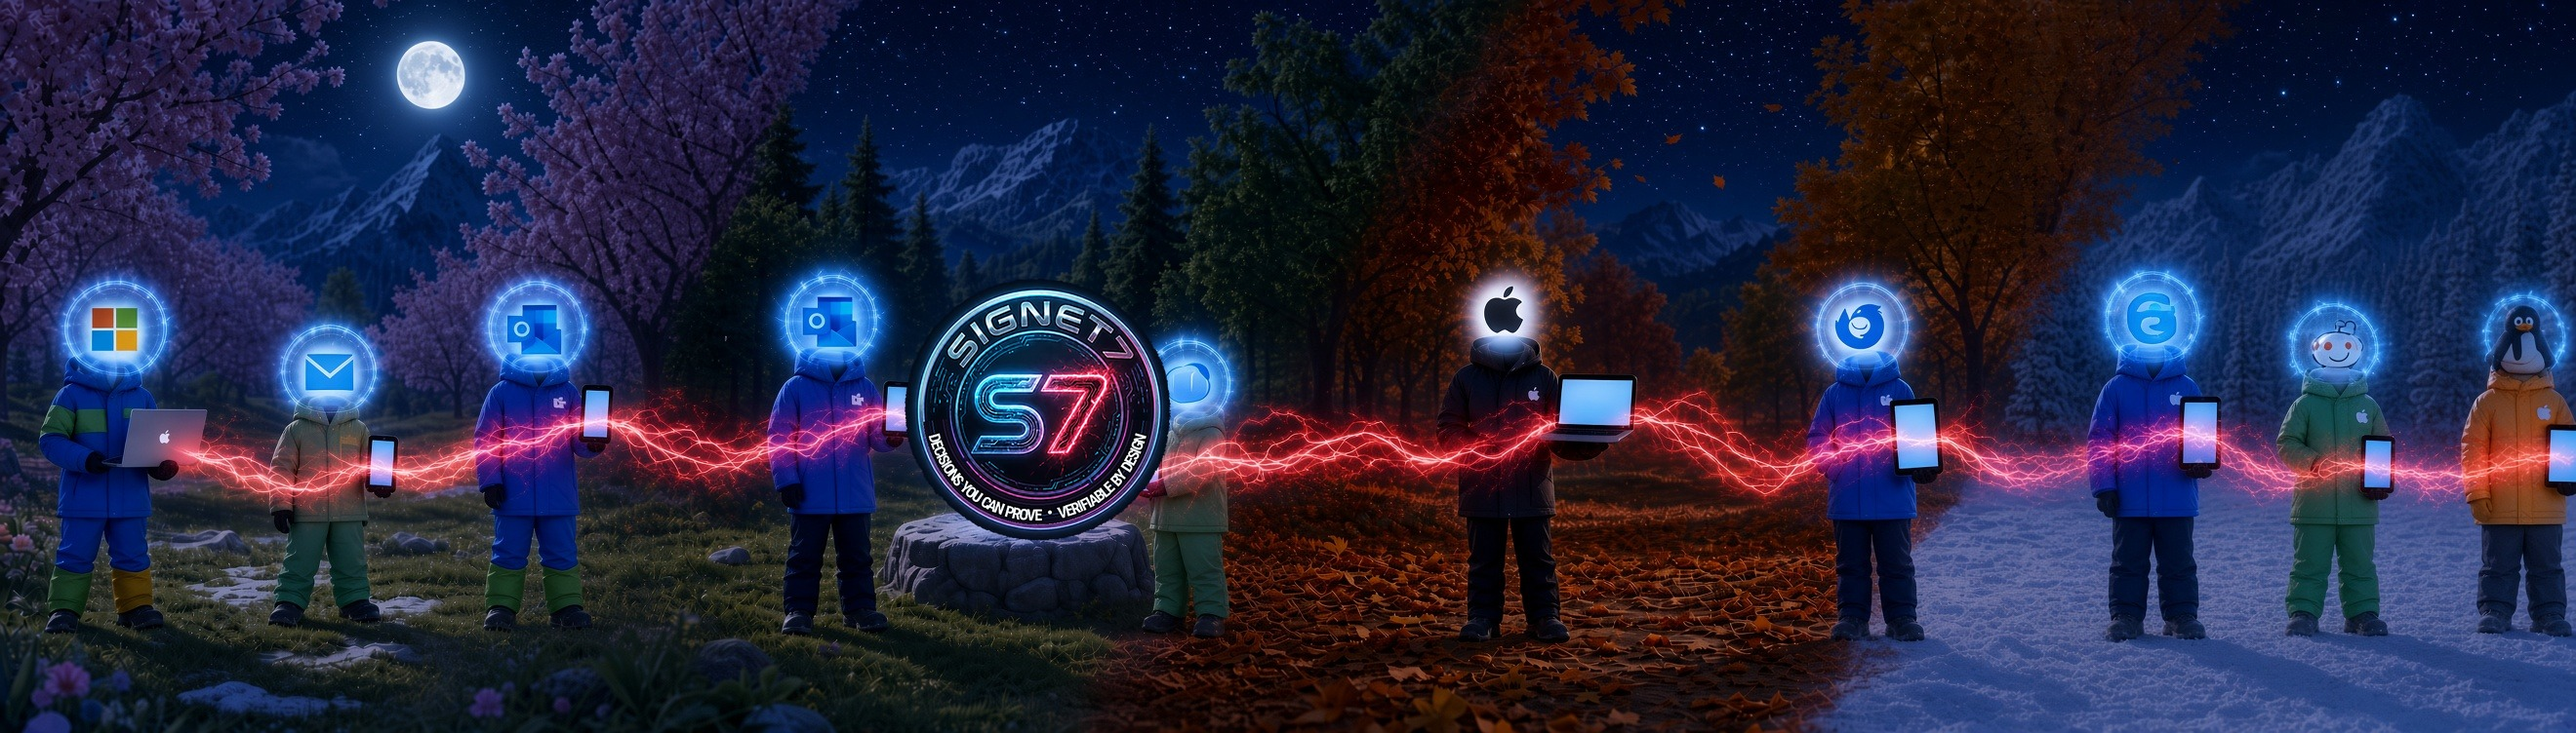
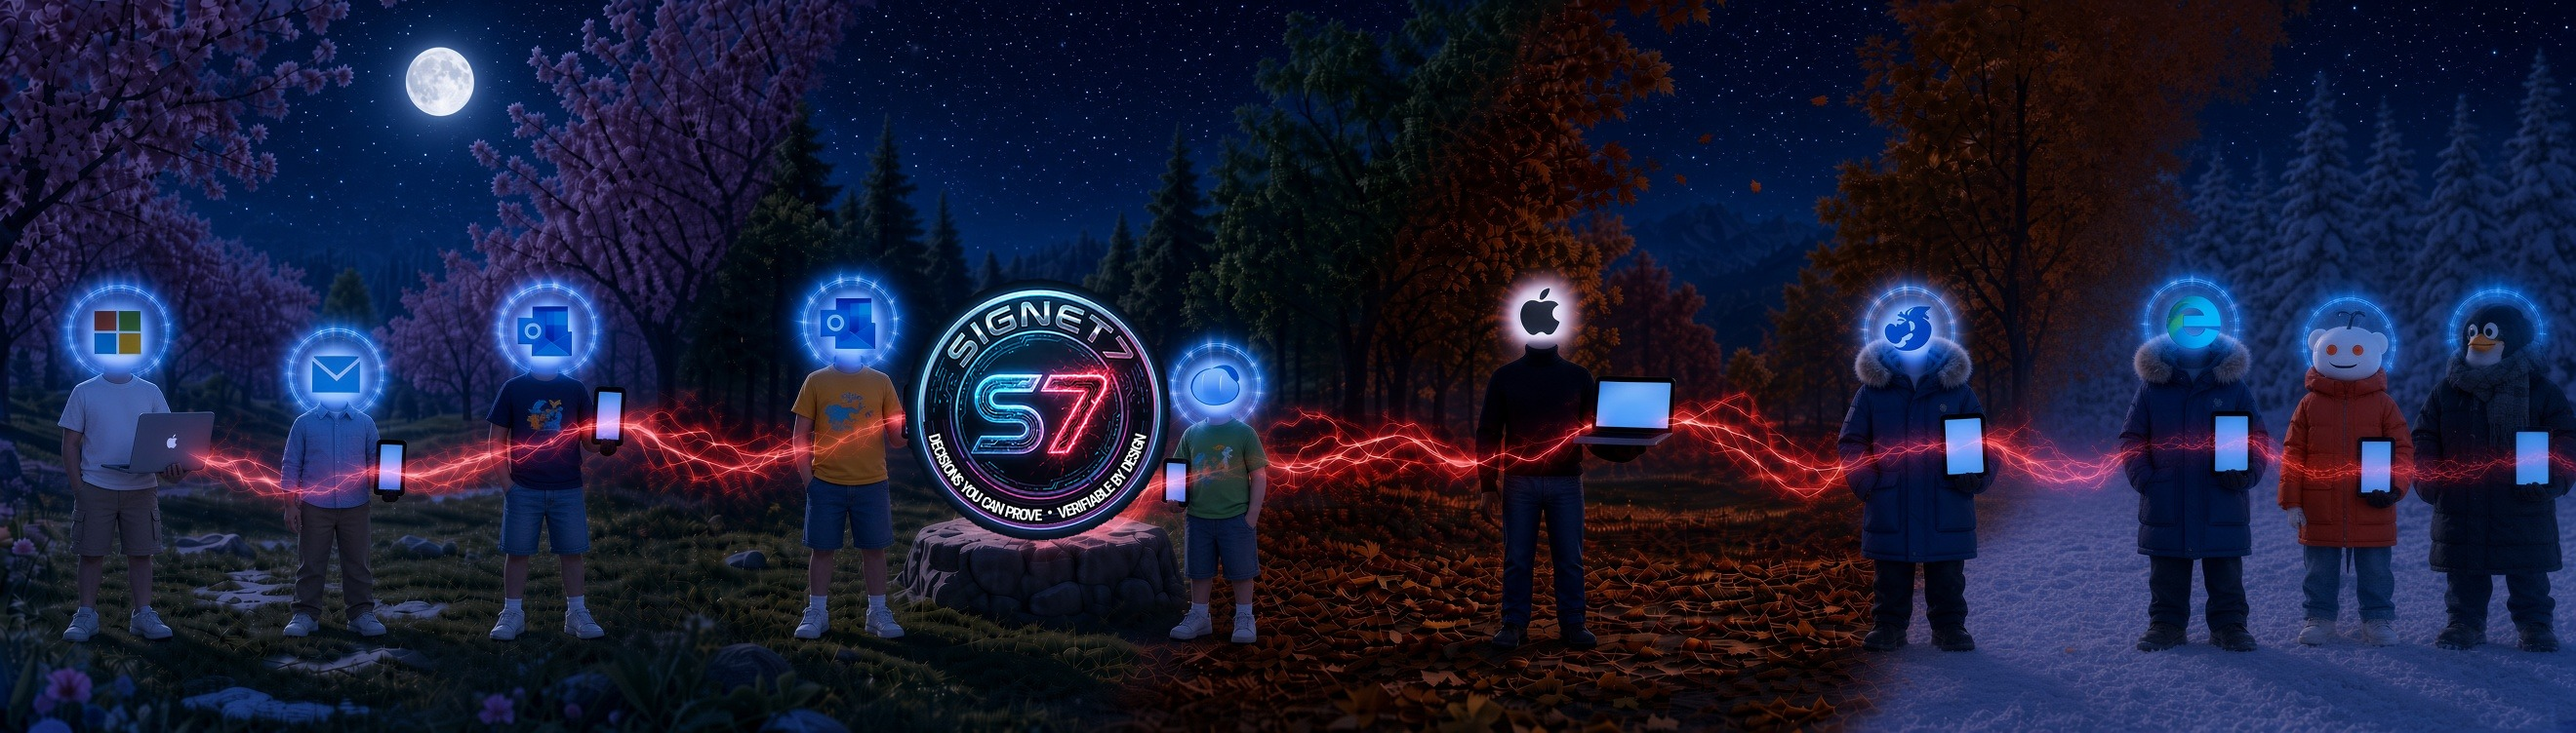
feat(site): people scenes for light and dark on every page
Day panorama is light. Night panorama is dark. Current catchphrase seal on the stone.

diff --git a/trust.html b/trust.html
@@ -5,7 +5,7 @@
      enforceable subset. NOTE: frame-ancestors is ignored when delivered via <meta>;
      real clickjacking protection requires a header layer (Cloudflare/CloudFront) and
      is required before any verification surface is hosted on this domain. -->
-<meta http-equiv="Content-Security-Policy" content="default-src 'self'; script-src 'self'; style-src 'self'; img-src 'self'; font-src 'self'; connect-src 'self'; object-src 'none'; base-uri 'none'; form-action 'self'; frame-ancestors 'none'; upgrade-insecure-requests"><meta name="referrer" content="strict-origin-when-cross-origin"><meta http-equiv="X-Content-Type-Options" content="nosniff"><title>Trust &amp; Evidence | Signet7</title><meta name="description" content="Understand Signet7 signature-bound sender identity, trust states, decision evidence, compliance boundaries, and the Verifiable Sender Network (VSN) lookup live on qualification."><link rel="canonical" href="https://signet7.io/trust"><meta property="og:title" content="Trust &amp; Evidence | Signet7"><meta property="og:description" content="Understand Signet7 signature-bound sender identity, trust states, decision evidence, compliance boundaries, and the Verifiable Sender Network (VSN) lookup live on qualification."><meta property="og:type" content="website"><meta property="og:url" content="https://signet7.io/trust"><meta property="og:image" content="https://signet7.io/assets/og-image.png"><meta name="twitter:card" content="summary_large_image"><link rel="icon" type="image/png" href="assets/favicon.png"><link rel="stylesheet" href="assets/site.css?v=20260821z"></head>
+<meta http-equiv="Content-Security-Policy" content="default-src 'self'; script-src 'self'; style-src 'self'; img-src 'self'; font-src 'self'; connect-src 'self'; object-src 'none'; base-uri 'none'; form-action 'self'; frame-ancestors 'none'; upgrade-insecure-requests"><meta name="referrer" content="strict-origin-when-cross-origin"><meta http-equiv="X-Content-Type-Options" content="nosniff"><title>Trust &amp; Evidence | Signet7</title><meta name="description" content="Understand Signet7 signature-bound sender identity, trust states, decision evidence, compliance boundaries, and the Verifiable Sender Network (VSN) lookup live on qualification."><link rel="canonical" href="https://signet7.io/trust"><meta property="og:title" content="Trust &amp; Evidence | Signet7"><meta property="og:description" content="Understand Signet7 signature-bound sender identity, trust states, decision evidence, compliance boundaries, and the Verifiable Sender Network (VSN) lookup live on qualification."><meta property="og:type" content="website"><meta property="og:url" content="https://signet7.io/trust"><meta property="og:image" content="https://signet7.io/assets/og-image.png"><meta name="twitter:card" content="summary_large_image"><link rel="icon" type="image/png" href="assets/favicon.png"><link rel="stylesheet" href="assets/site.css?v=20260821aa"></head>
 <body>
   <a class="skip-link" href="#main">Skip to content</a>
   <header class="site-header"><div class="container nav-wrap"><a class="brand" href="/"><img src="assets/signet7-logo-mark.png?v=c3" width="768" height="768" alt="Signet7"><span>Signet7</span></a>      <button class="nav-toggle" type="button" aria-expanded="false" aria-controls="site-nav" aria-label="Open menu">Menu</button>

diff --git a/programs.html b/programs.html
@@ -5,7 +5,7 @@
      enforceable subset. NOTE: frame-ancestors is ignored when delivered via <meta>;
      real clickjacking protection requires a header layer (Cloudflare/CloudFront) and
      is required before any verification surface is hosted on this domain. -->
-<meta http-equiv="Content-Security-Policy" content="default-src 'self'; script-src 'self'; style-src 'self'; img-src 'self'; font-src 'self'; connect-src 'self'; object-src 'none'; base-uri 'none'; form-action 'self'; frame-ancestors 'none'; upgrade-insecure-requests"><meta name="referrer" content="strict-origin-when-cross-origin"><meta http-equiv="X-Content-Type-Options" content="nosniff"><title>Programs &amp; Pricing Direction | Signet7</title><meta name="description" content="Review Signet7's new agent- and decision-value commercial direction, buyer ladder, evaluation program, and inactive legacy pricing boundary."><link rel="canonical" href="https://signet7.io/programs"><meta property="og:title" content="Programs &amp; Pricing Direction | Signet7"><meta property="og:description" content="Review Signet7's new agent- and decision-value commercial direction, buyer ladder, evaluation program, and inactive legacy pricing boundary."><meta property="og:type" content="website"><meta property="og:url" content="https://signet7.io/programs"><meta property="og:image" content="https://signet7.io/assets/og-image.png"><meta name="twitter:card" content="summary_large_image"><link rel="icon" type="image/png" href="assets/favicon.png"><link rel="stylesheet" href="assets/site.css?v=20260821z"></head>
+<meta http-equiv="Content-Security-Policy" content="default-src 'self'; script-src 'self'; style-src 'self'; img-src 'self'; font-src 'self'; connect-src 'self'; object-src 'none'; base-uri 'none'; form-action 'self'; frame-ancestors 'none'; upgrade-insecure-requests"><meta name="referrer" content="strict-origin-when-cross-origin"><meta http-equiv="X-Content-Type-Options" content="nosniff"><title>Programs &amp; Pricing Direction | Signet7</title><meta name="description" content="Review Signet7's new agent- and decision-value commercial direction, buyer ladder, evaluation program, and inactive legacy pricing boundary."><link rel="canonical" href="https://signet7.io/programs"><meta property="og:title" content="Programs &amp; Pricing Direction | Signet7"><meta property="og:description" content="Review Signet7's new agent- and decision-value commercial direction, buyer ladder, evaluation program, and inactive legacy pricing boundary."><meta property="og:type" content="website"><meta property="og:url" content="https://signet7.io/programs"><meta property="og:image" content="https://signet7.io/assets/og-image.png"><meta name="twitter:card" content="summary_large_image"><link rel="icon" type="image/png" href="assets/favicon.png"><link rel="stylesheet" href="assets/site.css?v=20260821aa"></head>
 <body>
   <a class="skip-link" href="#main">Skip to content</a>
   <header class="site-header"><div class="container nav-wrap"><a class="brand" href="/"><img src="assets/signet7-logo-mark.png?v=c3" width="768" height="768" alt="Signet7"><span>Signet7</span></a>      <button class="nav-toggle" type="button" aria-expanded="false" aria-controls="site-nav" aria-label="Open menu">Menu</button>

diff --git a/integrations.html b/integrations.html
@@ -5,7 +5,7 @@
      enforceable subset. NOTE: frame-ancestors is ignored when delivered via <meta>;
      real clickjacking protection requires a header layer (Cloudflare/CloudFront) and
      is required before any verification surface is hosted on this domain. -->
-<meta http-equiv="Content-Security-Policy" content="default-src 'self'; script-src 'self'; style-src 'self'; img-src 'self'; font-src 'self'; connect-src 'self'; object-src 'none'; base-uri 'none'; form-action 'self'; frame-ancestors 'none'; upgrade-insecure-requests"><meta name="referrer" content="strict-origin-when-cross-origin"><meta http-equiv="X-Content-Type-Options" content="nosniff"><title>Integrations | Signet7 API &amp; MCP</title><meta name="description" content="Review Signet7 API/MCP-first agent gating, caller-enforcement contract, email integration candidates, and current deployment boundaries."><link rel="canonical" href="https://signet7.io/integrations"><meta property="og:title" content="Integrations | Signet7 API &amp; MCP"><meta property="og:description" content="Review Signet7 API/MCP-first agent gating, caller-enforcement contract, email integration candidates, and current deployment boundaries."><meta property="og:type" content="website"><meta property="og:url" content="https://signet7.io/integrations"><meta property="og:image" content="https://signet7.io/assets/og-image.png"><meta name="twitter:card" content="summary_large_image"><link rel="icon" type="image/png" href="assets/favicon.png"><link rel="stylesheet" href="assets/site.css?v=20260821z"></head>
+<meta http-equiv="Content-Security-Policy" content="default-src 'self'; script-src 'self'; style-src 'self'; img-src 'self'; font-src 'self'; connect-src 'self'; object-src 'none'; base-uri 'none'; form-action 'self'; frame-ancestors 'none'; upgrade-insecure-requests"><meta name="referrer" content="strict-origin-when-cross-origin"><meta http-equiv="X-Content-Type-Options" content="nosniff"><title>Integrations | Signet7 API &amp; MCP</title><meta name="description" content="Review Signet7 API/MCP-first agent gating, caller-enforcement contract, email integration candidates, and current deployment boundaries."><link rel="canonical" href="https://signet7.io/integrations"><meta property="og:title" content="Integrations | Signet7 API &amp; MCP"><meta property="og:description" content="Review Signet7 API/MCP-first agent gating, caller-enforcement contract, email integration candidates, and current deployment boundaries."><meta property="og:type" content="website"><meta property="og:url" content="https://signet7.io/integrations"><meta property="og:image" content="https://signet7.io/assets/og-image.png"><meta name="twitter:card" content="summary_large_image"><link rel="icon" type="image/png" href="assets/favicon.png"><link rel="stylesheet" href="assets/site.css?v=20260821aa"></head>
 <body>
   <a class="skip-link" href="#main">Skip to content</a>
   <header class="site-header"><div class="container nav-wrap"><a class="brand" href="/"><img src="assets/signet7-logo-mark.png?v=c3" width="768" height="768" alt="Signet7"><span>Signet7</span></a>      <button class="nav-toggle" type="button" aria-expanded="false" aria-controls="site-nav" aria-label="Open menu">Menu</button>

diff --git a/index.html b/index.html
@@ -21,7 +21,7 @@
   <meta property="og:image" content="https://signet7.io/assets/og-image.png">
   <link rel="canonical" href="https://signet7.io/">
   <link rel="icon" type="image/png" href="assets/favicon.png">
-  <link rel="stylesheet" href="assets/site.css?v=20260821z">
+  <link rel="stylesheet" href="assets/site.css?v=20260821aa">
 </head>
 <body class="home">
   <a class="skip-link" href="#main">Skip to content</a>
@@ -104,8 +104,8 @@
         </div>
       </div>
       <div class="scene-wrap hero-scene" aria-hidden="true">
-        <img class="tech-scene tech-scene-light" src="assets/tech-scene.jpg?v=11" width="2640" height="752" alt="">
-        <img class="tech-scene tech-scene-dark" src="assets/tech-scene-dark.jpg?v=11" width="2640" height="752" alt="">
+        <img class="tech-scene tech-scene-light" src="assets/tech-scene.jpg?v=12" width="2640" height="752" alt="">
+        <img class="tech-scene tech-scene-dark" src="assets/tech-scene-dark.jpg?v=12" width="2640" height="752" alt="">
       </div>
     </section>
 
@@ -282,8 +282,8 @@
         </div>
       </div>
       <div class="scene-wrap" aria-hidden="true">
-        <img class="tech-scene tech-scene-light" src="assets/tech-scene.jpg?v=11" width="2640" height="752" alt="">
-        <img class="tech-scene tech-scene-dark" src="assets/tech-scene-dark.jpg?v=11" width="2640" height="752" alt="">
+        <img class="tech-scene tech-scene-light" src="assets/tech-scene.jpg?v=12" width="2640" height="752" alt="">
+        <img class="tech-scene tech-scene-dark" src="assets/tech-scene-dark.jpg?v=12" width="2640" height="752" alt="">
       </div>
     </section>
 

diff --git a/assets/site.css b/assets/site.css
@@ -631,7 +631,7 @@ h3 { margin: 0 0 8px; font-size: 18px; }
 .site-footer, .footer {
   position: relative; z-index: 4;
   padding: 220px 0 28px; border-top: 0;
-  background: #eef6fb url("tech-scene.jpg?v=11") no-repeat center bottom / min(1600px, 140%) auto;
+  background: #eef6fb url("tech-scene.jpg?v=12") no-repeat center bottom / min(1600px, 140%) auto;
 }
 .footer-grid { display: grid; grid-template-columns: 1.3fr 1fr 1fr; gap: 20px; color: var(--night-mute); }
 .footer .brand, .site-footer .brand { font-size: 22px; }
@@ -1262,7 +1262,7 @@ html[data-theme="dark"] body.nav-open .drop-btn {
 }
 html[data-theme="dark"] .site-footer,
 html[data-theme="dark"] .footer {
-  background: #071018 url("tech-scene-dark.jpg?v=11") no-repeat center bottom / min(1600px, 140%) auto;
+  background: #071018 url("tech-scene-dark.jpg?v=12") no-repeat center bottom / min(1600px, 140%) auto;
 }
 html[data-theme="dark"] .footer-grid a,
 html[data-theme="dark"] .site-footer a,

diff --git a/pilot.html b/pilot.html
@@ -16,7 +16,7 @@
   <meta name="twitter:card" content="summary_large_image">
   <meta name="description" content="A bounded four-week Signet7 Founding Design Partner evaluation for one consequential email workflow: payment instructions.">
   <meta name="theme-color" content="#030609"><title>Founding Design Partner Pilot | Signet7</title>
-  <link rel="icon" type="image/png" href="assets/favicon.png"><link rel="apple-touch-icon" href="assets/apple-touch-icon.png"><link rel="stylesheet" href="assets/site.css?v=20260821z">
+  <link rel="icon" type="image/png" href="assets/favicon.png"><link rel="apple-touch-icon" href="assets/apple-touch-icon.png"><link rel="stylesheet" href="assets/site.css?v=20260821aa">
 </head>
 <body>
   <a class="skip-link" href="#main-content">Skip to content</a>

diff --git a/scenarios.html b/scenarios.html
@@ -18,7 +18,7 @@
   <meta property="og:image" content="https://signet7.io/assets/og-image.png">
   <link rel="canonical" href="https://signet7.io/scenarios">
   <link rel="icon" type="image/png" href="assets/favicon.png">
-  <link rel="stylesheet" href="assets/site.css?v=20260821z">
+  <link rel="stylesheet" href="assets/site.css?v=20260821aa">
 </head>
 <body>
   <a class="skip-link" href="#main">Skip to content</a>

diff --git a/download.html b/download.html
@@ -18,7 +18,7 @@
   <meta property="og:image" content="https://signet7.io/assets/og-image.png">
   <link rel="canonical" href="https://signet7.io/download">
   <link rel="icon" type="image/png" href="assets/favicon.png">
-  <link rel="stylesheet" href="assets/site.css?v=20260821z">
+  <link rel="stylesheet" href="assets/site.css?v=20260821aa">
 </head>
 <body>
   <a class="skip-link" href="#main">Skip to content</a>

diff --git a/contact.html b/contact.html
@@ -18,7 +18,7 @@
   <meta property="og:image" content="https://signet7.io/assets/og-image.png">
   <link rel="canonical" href="https://signet7.io/contact">
   <link rel="icon" type="image/png" href="assets/favicon.png">
-  <link rel="stylesheet" href="assets/site.css?v=20260821z">
+  <link rel="stylesheet" href="assets/site.css?v=20260821aa">
 </head>
 <body>
   <a class="skip-link" href="#main">Skip to content</a>

diff --git a/product.html b/product.html
@@ -18,7 +18,7 @@
   <meta property="og:image" content="https://signet7.io/assets/og-image.png">
   <meta name="twitter:card" content="summary_large_image">
   <link rel="icon" type="image/png" href="assets/favicon.png">
-  <link rel="stylesheet" href="assets/site.css?v=20260821z">
+  <link rel="stylesheet" href="assets/site.css?v=20260821aa">
 </head>
 <body>
   <a class="skip-link" href="#main">Skip to content</a>

diff --git a/check.html b/check.html
@@ -18,7 +18,7 @@
   <meta property="og:image" content="https://signet7.io/assets/og-image.png">
   <link rel="canonical" href="https://signet7.io/check">
   <link rel="icon" type="image/png" href="assets/favicon.png">
-  <link rel="stylesheet" href="assets/site.css?v=20260821z">
+  <link rel="stylesheet" href="assets/site.css?v=20260821aa">
 </head>
 <body>
   <a class="skip-link" href="#main">Skip to content</a>

diff --git a/smtp.html b/smtp.html
@@ -18,7 +18,7 @@
   <meta property="og:image" content="https://signet7.io/assets/og-image.png">
   <link rel="canonical" href="https://signet7.io/smtp">
   <link rel="icon" type="image/png" href="assets/favicon.png">
-  <link rel="stylesheet" href="assets/site.css?v=20260821z">
+  <link rel="stylesheet" href="assets/site.css?v=20260821aa">
 </head>
 <body>
   <a class="skip-link" href="#main">Skip to content</a>
